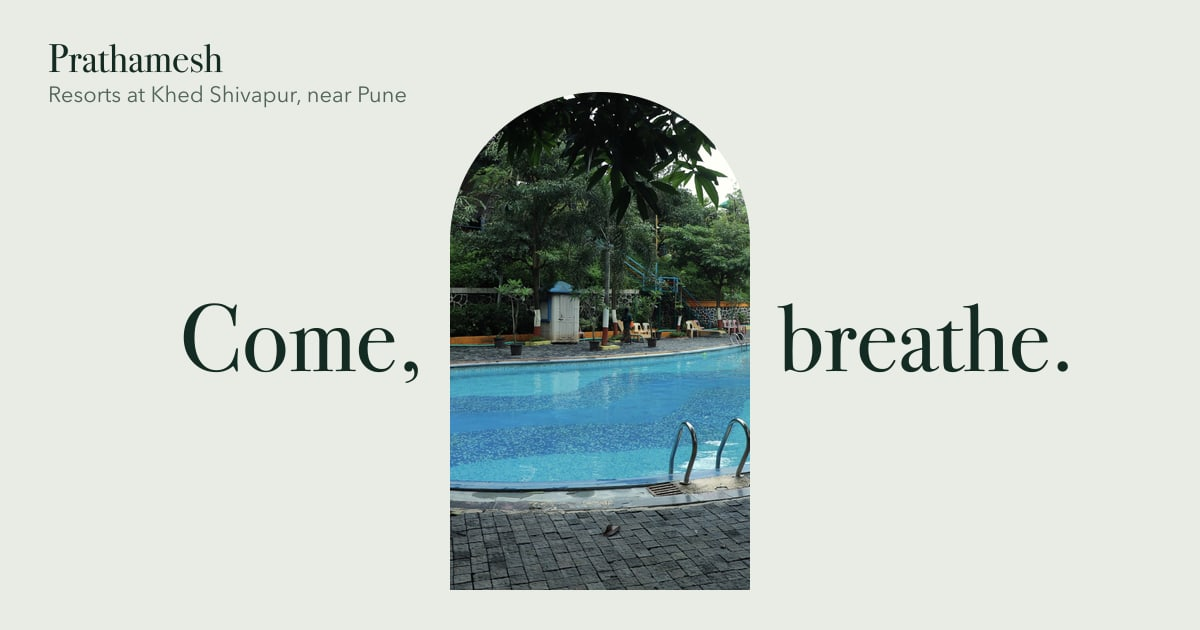
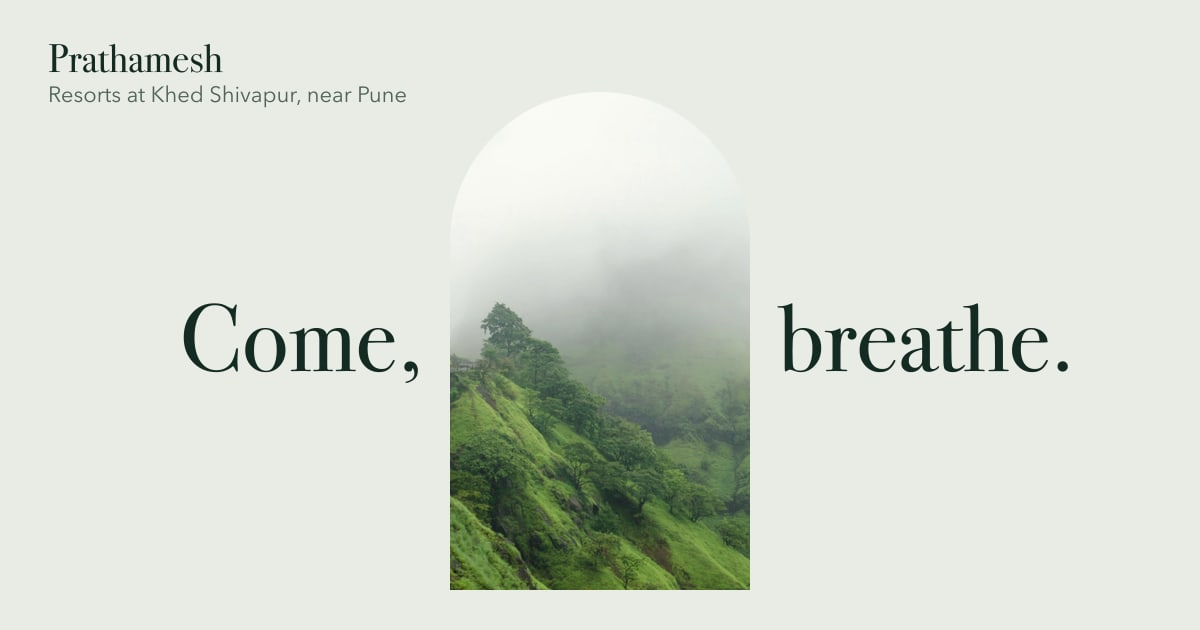
Open the hero on the Sahyadri and end it on the resort
The cluttered pool photo is gone from the hero. The arch now opens on
mist over the Sahyadri at Varandha Ghat, in Bhor taluka like the
resort itself. As the arch widens, the hills dissolve into the resort's
own Glass House balcony, so "relax, enjoy." lands on Prathamesh.

- The Sahyadri photo is by Satyan Chawla on Unsplash (Unsplash License),
  credited in the footer and in hero.tsx.
- The resort photo loads only after the first photo is on screen, so
  slow phone connections still open in about 2 seconds.
- A hairline traces the arch while it is closed, because the pale mist
  nearly matched the page background.
- The Glass House section and stays card use different Glass House
  photos, so no image repeats on the home page.
- The share image uses the new arch. Structured data now points to a
  real resort photo.

Changed region(s): [[0.37, 0.1206, 0.6475, 0.9349]]

diff --git a/src/components/home/hero.tsx b/src/components/home/hero.tsx
@@ -25,12 +25,15 @@ export function Hero() {
   const { scrollYProgress } = useScroll({ target: ref, offset: ["start start", "end end"] });
 
   const open = useTransform(scrollYProgress, [0, 0.62], [0, 1]);
+  const outlineOpacity = useTransform(scrollYProgress, [0, 0.06], [1, 0]);
   const imageScale = useTransform(scrollYProgress, [0, 0.75], [1.16, 1]);
   const leftX = useTransform(scrollYProgress, [0, 0.55], [0, -38]);
   const rightX = useTransform(scrollYProgress, [0, 0.55], [0, 38]);
   const wordsOpacity = useTransform(scrollYProgress, [0.05, 0.4], [1, 0]);
   const introOpacity = useTransform(scrollYProgress, [0, 0.18], [1, 0]);
   const endOpacity = useTransform(scrollYProgress, [0.62, 0.82], [0, 1]);
+  // While the arch opens, the Sahyadri gives way to the resort itself.
+  const resortOpacity = useTransform(scrollYProgress, [0.08, 0.4], [0, 1]);
   const endY = useTransform(scrollYProgress, [0.62, 0.9], [40, 0]);
 
   const imageTransform = useMotionTemplate`scale(${imageScale})`;
@@ -49,9 +52,6 @@ export function Hero() {
       style={{ height: still ? "100svh" : "280svh" }}
     >
       <div className="sticky top-0 h-svh overflow-hidden">
-        {/* A hairline outline of the arch, shown while the photo is still on its way. */}
-        <div aria-hidden className="hero-outline hero-window-frame pointer-events-none absolute" />
-
         {/* The arch */}
         <motion.div
           className="hero-window absolute inset-0"
@@ -60,14 +60,21 @@ export function Hero() {
           <div className="hero-fill absolute inset-0">
             <motion.div className="absolute inset-0" style={still ? undefined : { transform: imageTransform }}>
               <div className="hero-settle absolute inset-0">
+                {/*
+                  The landscape around the resort, not the resort itself: mist on the
+                  Sahyadri at Varandha Ghat, in Bhor taluka, during the monsoon.
+                  Photo by Satyan Chawla, free under the Unsplash License:
+                  https://unsplash.com/photos/green-trees-on-mountain-during-foggy-day-PTI5yH3A4l8
+                  Credited in the site footer.
+                */}
                 <Image
-                  src={photos.heroPool}
-                  alt="The main pool at Prathamesh Resorts, ringed by tall trees, under a soft monsoon sky"
+                  src={photos.heroSahyadri}
+                  alt="Mist over the green slopes of the Sahyadri at Varandha Ghat, near Bhor, in the monsoon"
                   fill
                   preload
                   sizes="100vw"
                   placeholder="blur"
-                  className="object-cover object-[50%_45%]"
+                  className="object-cover object-[66%_50%]"
                   onLoad={(event) => {
                     event.currentTarget
                       .decode()
@@ -75,6 +82,23 @@ export function Hero() {
                       .finally(() => setPhotoReady(true));
                   }}
                 />
+                {/*
+                  Through the arch: the resort. A Glass House balcony at Prathamesh.
+                  Mounted only after the first photo is ready, so on a slow phone
+                  connection it never competes with the opening image.
+                */}
+                {photoReady && !still && (
+                  <motion.div className="absolute inset-0" style={{ opacity: resortOpacity }}>
+                    <Image
+                      src={photos.glassJacuzzi}
+                      alt="A jacuzzi filled with rose petals on a Glass House balcony at Prathamesh Resorts, open to the trees"
+                      fill
+                      loading="eager"
+                      sizes="100vw"
+                      className="object-cover object-[28%_60%] md:object-[50%_60%]"
+                    />
+                  </motion.div>
+                )}
               </div>
             </motion.div>
             <motion.div
@@ -83,6 +107,19 @@ export function Hero() {
               style={{ opacity: still ? 0 : endOpacity }}
             />
           </div>
+        </motion.div>
+
+        {/*
+          A hairline outline of the arch. It appears while the photo loads, then
+          stays on top of the photo's edge so the curve reads clearly against the
+          pale mist, and fades away as soon as the arch starts to open.
+        */}
+        <motion.div
+          aria-hidden
+          className="pointer-events-none absolute inset-0"
+          style={{ opacity: still ? 1 : outlineOpacity }}
+        >
+          <div className="hero-outline hero-window-frame absolute" />
         </motion.div>
 
         {/* "Come, breathe." on either side of the arch */}

diff --git a/src/content/photos.ts b/src/content/photos.ts
@@ -1,4 +1,5 @@
-// Generated from src/assets/photos. Every photo is the client's own, colour-graded for a consistent look.
+// Generated from src/assets/photos. Every photo is the client's own, colour-graded for a consistent look,
+// except heroSahyadri: a Sahyadri landscape near Bhor by Satyan Chawla (Unsplash License), see hero.tsx.
 import archery from "@/assets/photos/archery.jpg";
 import atv from "@/assets/photos/atv.jpg";
 import banquetExterior from "@/assets/photos/banquet-exterior.jpg";
@@ -30,6 +31,7 @@ import glassTub from "@/assets/photos/glass-tub.jpg";
 import glassTwin from "@/assets/photos/glass-twin.jpg";
 import groupOuting from "@/assets/photos/group-outing.jpg";
 import heroPool from "@/assets/photos/hero-pool.jpg";
+import heroSahyadri from "@/assets/photos/hero-sahyadri.jpg";
 import kidsPlay from "@/assets/photos/kids-play.jpg";
 import netClimb from "@/assets/photos/net-climb.jpg";
 import poolFalls from "@/assets/photos/pool-falls.jpg";
@@ -103,6 +105,7 @@ export const photos = {
   glassTwin,
   groupOuting,
   heroPool,
+  heroSahyadri,
   kidsPlay,
   netClimb,
   poolFalls,

diff --git a/src/app/globals.css b/src/app/globals.css
@@ -393,7 +393,7 @@ html.lenis body {
   bottom: var(--bottom);
   left: var(--side);
   right: var(--side);
-  border: 1px solid rgb(20 43 36 / 0.22);
+  border: 1px solid rgb(20 43 36 / 0.28);
   border-bottom: 0;
   border-radius: var(--arch) var(--arch) 0 0;
 }
@@ -405,23 +405,12 @@ html.lenis body {
     --arch: 14vw;
   }
 }
-@keyframes hero-outline-out {
-  from {
-    opacity: 1;
-  }
-  to {
-    opacity: 0;
-  }
-}
-/* Fades in while the photo loads, holds while the photo fills the arch, then fades out. */
+/* Fades in while the photo loads and stays on the arch's edge (hero.tsx fades it on scroll). */
 .hero-outline {
   opacity: 0;
 }
 .js .hero .hero-outline {
   animation: hero-fade 900ms ease 400ms both;
-}
-.js .hero[data-ready] .hero-outline {
-  animation: hero-outline-out 700ms ease 1700ms both;
 }
 html:not(.js) .hero-outline {
   display: none;

diff --git a/src/components/site-footer.tsx b/src/components/site-footer.tsx
@@ -84,7 +84,18 @@ export function SiteFooter() {
             </Link>
           ))}
         </nav>
-        <p>© 2026 Prathamesh Resorts</p>
+        <p>
+          © 2026 Prathamesh Resorts. Opening photo of the Sahyadri by{" "}
+          <a
+            href="https://unsplash.com/photos/green-trees-on-mountain-during-foggy-day-PTI5yH3A4l8"
+            target="_blank"
+            rel="noreferrer"
+            className="tap underline decoration-sage/40 underline-offset-4 hover:text-mist"
+          >
+            Satyan Chawla
+          </a>
+          .
+        </p>
       </div>
 
       <p

diff --git a/src/components/home/glass-house.tsx b/src/components/home/glass-house.tsx
@@ -12,8 +12,8 @@ export function GlassHouse() {
         <div className="relative lg:col-span-7">
           <div className="unveil">
             <ParallaxPhoto
-              name="glassBalcony"
-              alt="A jacuzzi filled with rose petals on a Glass House balcony, open to the trees"
+              name="glassTub"
+              alt="A Glass House balcony bath filled with rose petals, with green trees beyond the railing"
               sizes="(min-width: 1024px) 55vw, 100vw"
               className="aspect-[4/5] sm:aspect-square"
               depth={7}

diff --git a/src/content/resort.ts b/src/content/resort.ts
@@ -78,7 +78,7 @@ export const stays: Stay[] = [
     rooms: "6 rooms",
     guests: "4 to 5 guests",
     photos: ["glassBalcony", "glassTwin", "glassDetail", "glassJacuzzi", "glassRoom", "glassTub"],
-    cover: "glassJacuzzi",
+    cover: "glassRoom",
     features: ["Balcony jacuzzi", ...standardFeatures],
     weekday: { basis: "per couple", base: 5000, extraPerson: 1500, child5to11: 800, child3to5: 0 },
     weekend: { basis: "per couple", base: 8000, extraPerson: 2000, child5to11: 1500, child3to5: 800 },

diff --git a/src/app/page.tsx b/src/app/page.tsx
@@ -21,7 +21,7 @@ const resortJsonLd = {
   "@type": "Resort",
   name: siteName,
   url: siteUrl,
-  image: `${siteUrl}/og-image.jpg`,
+  image: `${siteUrl}/resort-photo.jpg`,
   telephone: "+91-90495-38888",
   email: contact.email,
   address: {
